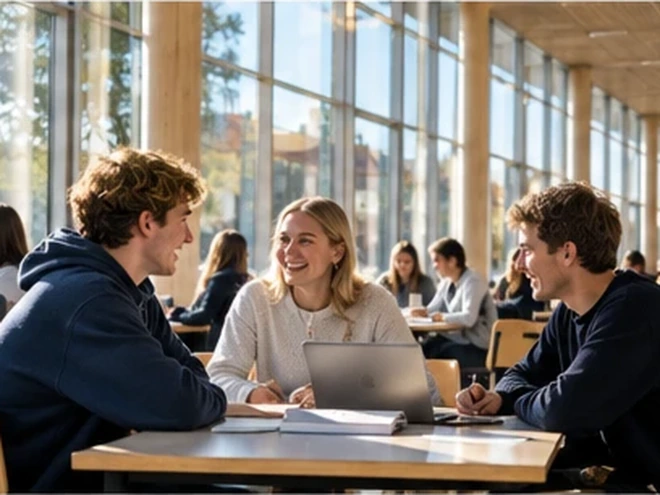
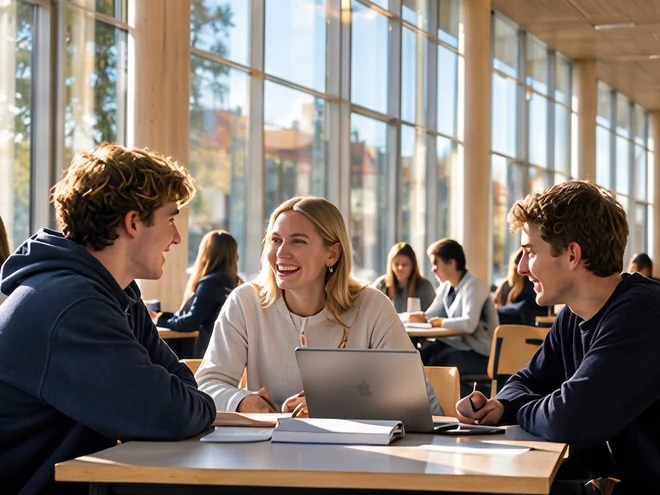
Sustituye las fotos por los originales a tamaño completo
Los 20 archivos de fotosoriginalessab/ vienen a 1000-1280 px, cuatro veces la
resolución de las viñetas recortadas de las hojas de contactos. Ahora todas
las piezas se reducen o se quedan a escala 1:1; ninguna se amplía, que era lo
que dejaba el héroe blando.

Se eligen diez. Fuera las que muestran el rótulo "AARHUS UNIVERSITET", por
coherencia con quitar Aarhus del sitio, y fuera el merchandising y los
paneles con texto en inglés.

- Héroe: estudiantes charlando en el césped del campus, con Nyhavn en la foto
  pequeña.
- Banda navy: estudiantes trabajando con portátiles junto a los ventanales.
- Por qué Dinamarca: vista de ciudad con la torre.
- El proceso: ventanilla de avión.
- Por qué Study & Beyond: edificio junto al agua. Sobre nosotros: calle con
  bici.
- Historias: tres escenas danesas.

Los anchos suben a la resolución que permite cada original (el héroe pasa de
760 a 900 px; la banda navy, de 980 a 1150) y el enfoque baja a un retoque
leve, que ya no hay que compensar ninguna ampliación. Se conservan los
originales en el repositorio para poder reencuadrar; no se publican, porque
el despliegue solo sube dist/.

Claude-Session: https://claude.ai/code/session_01WcqeCjLseUGScxBkoQr29h

diff --git a/README.md b/README.md
@@ -64,15 +64,16 @@ consentir. Al configurar un proveedor sin cookies, poner `habilitada: true`.
 
 ## Imágenes
 
-Las fotos viven en `public/img/` en WebP, con dos anchos por pieza y el ancho
-en el nombre (`aula-proyectos-660.webp`). Se sirven con `srcset` + `sizes`.
+Los originales están en `fotosoriginalessab/`. De ahí salen, recortadas al
+aspecto de cada hueco, las versiones de `public/img/`: WebP, dos anchos por
+pieza y el ancho en el nombre (`aula-proyectos-1150.webp`), servidas con
+`srcset` + `sizes`. Ninguna se amplía por encima de su tamaño original.
 
-Tres cosas pendientes:
+La carpeta de originales no se publica: el sitio solo despliega `dist/`.
+Se conserva para poder reencuadrar sin volver a pedir los archivos.
 
-- **Resolución.** Las fotos actuales se recortaron de hojas de contactos de
-  unos 300 px por viñeta y están reescaladas entre 2x y 3x. Se ven bien a 1x,
-  pero quedan blandas en pantallas de alta densidad. Sustituir por los
-  originales a tamaño completo manteniendo los nombres de archivo.
+Pendiente:
+
 - **Retratos.** Las tarjetas de `/historias/` y la de la fundadora en
   `/sobre-mi/` llevan una escena danesa, no un retrato: no se pone una cara
   que no es la de la persona a la que se atribuye la cita. Al tener las fotos
